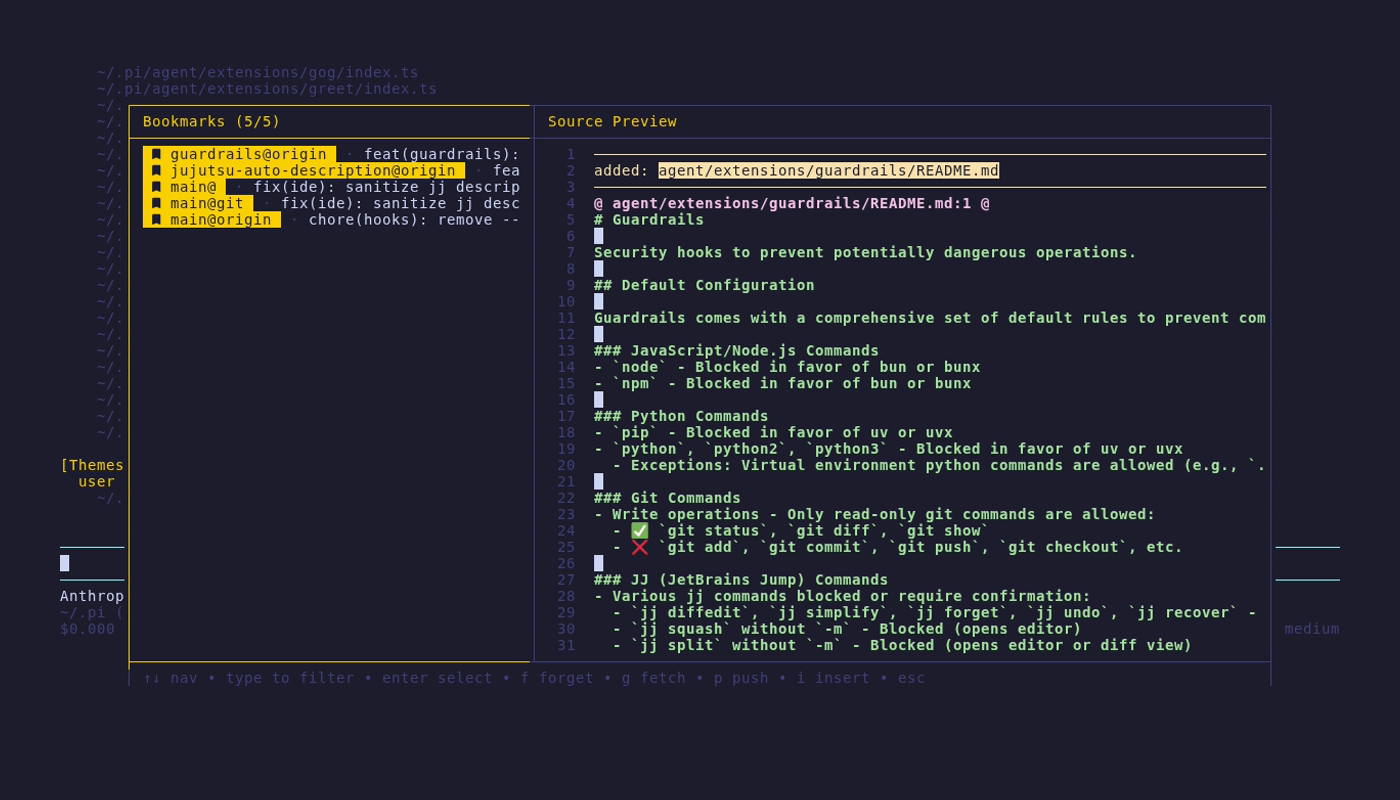
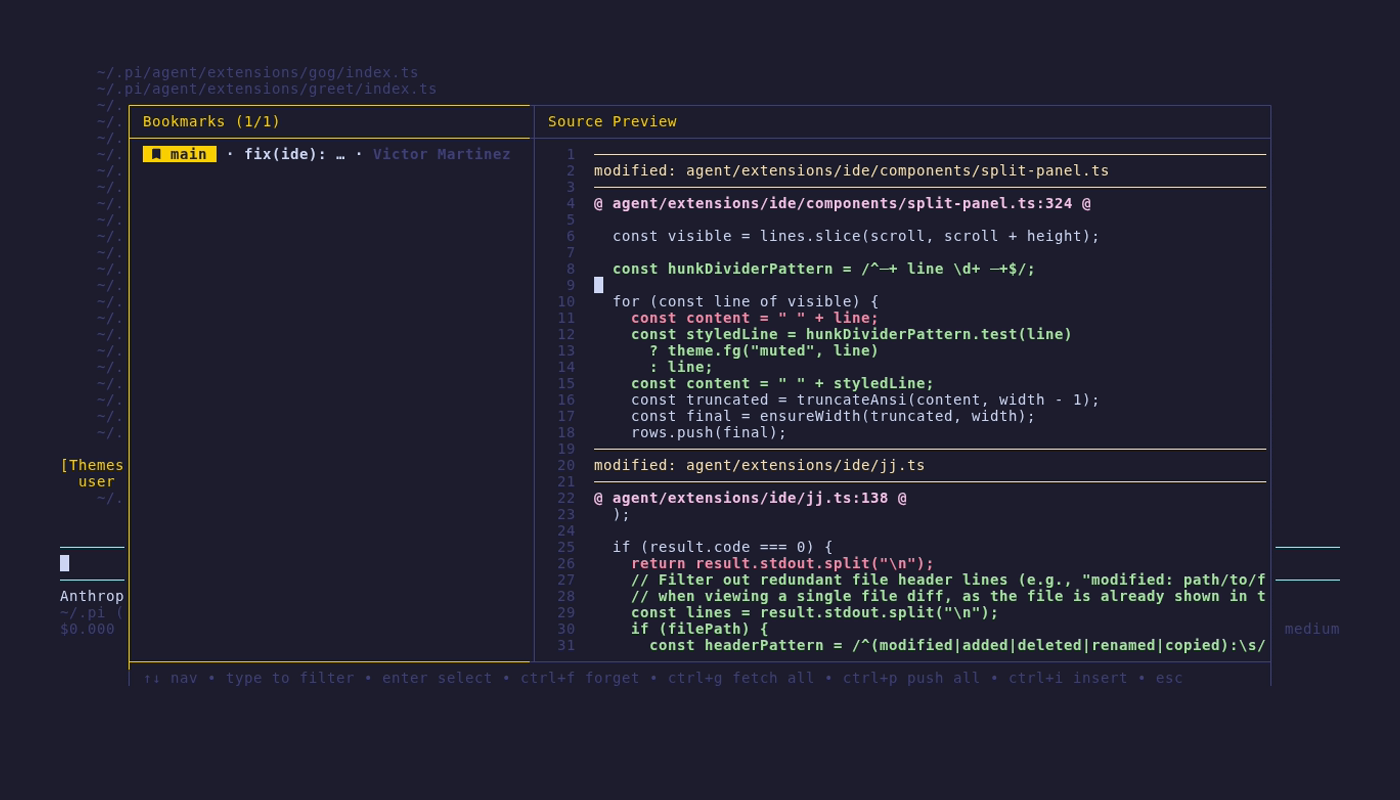
docs(ide): 📝 document missing features and refresh screenshots

diff --git a/agent/extensions/ide/README.md b/agent/extensions/ide/README.md
@@ -1,16 +1,18 @@
 # IDE Extension
 
-A development environment extension for pi that provides code browsing, jujutsu integration, and workspace management with split-panel TUI interfaces.
+A development environment extension for pi that provides code browsing, Codemapper analysis, jujutsu workflows, and workspace management with split-panel TUI overlays.
 
 ## Features
 
 - **Code browsing** - Browse files and symbols with syntax-highlighted previews
 - **Codemapper integration** - Inspect symbols, callers, callees, tests, types, schema, and impact
-- **Jujutsu integration** - Track changes per prompt, browse change history, and manage bookmarks
-- **Operation log** - Browse and restore jujutsu operation history
-- **Bookmark workflows** - Fuzzy bookmark picker, create bookmark from input, and bookmark browser (`name@remote`)
-- **Multi-select changes** - Select multiple changes and describe all selected IDs in one action
-- **Workspace management** - Spawn subagents in isolated jj workspaces
+- **Jujutsu integration** - Browse mutable changes, diff files, split/fixup/drop/new changes, and manage bookmarks
+- **Operation log** - Browse and restore/undo jujutsu operations
+- **Bookmark workflows** - Fuzzy bookmark picker, create bookmark from input, browse and push bookmarks (`name@remote`)
+- **Move mode for changes** - Reorder mutable changes in the stack (`Ctrl+M`, then `↑/↓`, `Enter`)
+- **Workspace management** - Create isolated jj workspaces and spawn subagents
+- **Skill browser** - Browse local/remote skills and install or insert `/skill:<name>`
+- **Command palette** - Fuzzy-search slash commands and shortcuts from one overlay
 - **Rich diffs** - Colorized diffs via diff-so-fancy
 - **Quick navigation** - Keyboard shortcuts for fast access
 
@@ -58,51 +60,57 @@ Browse bookmarks in `name@remote` format (`name@` for local bookmarks).
 ![Bookmarks](screenshots/bookmarks.png)
 
 **Bookmarks pane:**
-| Key | Action |
-| ------- | ------------------------ |
-| `↑/↓` | Navigate |
-| `f` | Forget selected bookmark |
-| `g` | Git fetch |
-| `p` | Git push bookmark |
-| `i` | Insert bookmark name |
-| `Esc` | Exit |
+
+| Key   | Action                   |
+| ----- | ------------------------ |
+| `↑/↓` | Navigate                 |
+| `f`   | Forget selected bookmark |
+| `g`   | Git fetch                |
+| `p`   | Git push bookmark        |
+| `i`   | Insert bookmark name     |
+| `Esc` | Exit                     |
 
 ### `/changes`
 
-Browse mutable jujutsu changes on current branch with diff preview.
+Browse all mutable jujutsu changes with file/diff preview.
 
 ![Changes](screenshots/changes.png)
 
 **Changes pane:**
-| Key | Action |
-| -------- | ------------------------------------------------- |
-| `Tab` | Switch focus |
-| `↑/↓` | Navigate |
-| `Space` | Toggle selected change |
-| `e` | Edit change |
-| `d` | Describe selected changes (or focused change) |
-| `s` | Split change into multiple commits |
-| `f` | Fixup (squash into parent) |
-| `Ctrl+D` | Drop change |
-| `i` | Insert change ID |
-| `b` | Set bookmark on change (fuzzy picker + create) |
+
+| Key      | Action                                         |
+| -------- | ---------------------------------------------- |
+| `Tab`    | Switch focus                                   |
+| `↑/↓`    | Navigate                                       |
+| `Space`  | Toggle selected change                         |
+| `e`      | Edit change                                    |
+| `d`      | Describe selected changes (or focused change)  |
+| `s`      | Split change                                   |
+| `n`      | Create new change after selected change        |
+| `f`      | Fixup (squash into parent)                     |
+| `Ctrl+M` | Enter move mode (`↑/↓` move, `Enter` apply)    |
+| `Ctrl+D` | Drop change                                    |
+| `i`      | Insert change ID                               |
+| `b`      | Set bookmark on change (picker + create)       |
+| `Ctrl+P` | Push all bookmarks pointing to selected change |
 
 **Files pane:**
-| Key | Action |
-| ----------- | -------------------- |
-| `Tab` | Switch focus |
-| `↑/↓` | Navigate |
-| `e` | Open file in VS Code |
-| `d` | Discard file changes |
-| `Ctrl+I` | Inspect file symbols |
-| `Ctrl+D` | Show file dependencies |
-| `Ctrl+U` | Show file used-by |
-| `PgUp/PgDn` | Scroll diff |
-| `Esc` | Exit |
+
+| Key         | Action                 |
+| ----------- | ---------------------- |
+| `Tab`       | Switch focus           |
+| `↑/↓`       | Navigate               |
+| `e`         | Open file in VS Code   |
+| `d`         | Discard file changes   |
+| `Ctrl+I`    | Inspect file symbols   |
+| `Ctrl+D`    | Show file dependencies |
+| `Ctrl+U`    | Show file used-by      |
+| `PgUp/PgDn` | Scroll diff            |
+| `Esc`       | Exit                   |
 
 ### `/oplog`
 
-Browse jujutsu operation log with restore capability.
+Browse jujutsu operation log with restore and undo capability.
 
 ![Op Log](screenshots/oplog.png)
 
@@ -120,56 +128,86 @@ Review all workspaces and their changes.
 ![Workspaces](screenshots/workspaces.png)
 
 **Workspaces pane:**
-| Key | Action |
-| ------- | ---------------------- |
-| `Tab` | Switch focus |
-| `↑/↓` | Navigate |
-| `n` | New workspace + pi |
-| `a` | Attach to tmux session |
-| `r` | Rebase & describe |
-| `e` | Open in VS Code |
-| `t` | Open terminal |
-| `x` | Delete workspace |
 
-**Files pane:**
-| Key | Action |
-| ----------- | ------------------ |
-| `Tab` | Switch focus |
-| `↑/↓` | Navigate |
-| `d` | Discard file |
-| `PgUp/PgDn` | Scroll diff |
-| `Esc` | Exit |
+| Key   | Action                 |
+| ----- | ---------------------- |
+| `Tab` | Switch focus           |
+| `↑/↓` | Navigate               |
+| `n`   | New workspace + pi     |
+| `a`   | Attach to tmux session |
+| `r`   | Rebase & describe      |
+| `e`   | Open in VS Code        |
+| `t`   | Open terminal          |
+| `x`   | Delete workspace       |
+
+**Files/Changes pane:**
+
+| Key         | Action       |
+| ----------- | ------------ |
+| `Tab`       | Switch focus |
+| `↑/↓`       | Navigate     |
+| `d`         | Discard file |
+| `PgUp/PgDn` | Scroll diff  |
+| `Esc`       | Exit         |
+
+### `/skills [query]`
+
+Browse local and remote skills, preview files, install remote skills, or insert local skill invocation.
+
+![Skills](screenshots/skills.png)
+
+| Key         | Action                                           |
+| ----------- | ------------------------------------------------ |
+| `↑/↓`       | Navigate (focused pane)                          |
+| `Tab`       | Switch skills/files pane                         |
+| `Enter`     | Install (remote) or insert `/skill:name` (local) |
+| `x`         | Delete local skill                               |
+| `Ctrl+L`    | Switch to local skills                           |
+| `Ctrl+R`    | Switch to remote skills                          |
+| `PgUp/PgDn` | Scroll preview                                   |
+| `Type`      | Filter skills                                    |
+| `Esc`       | Exit                                             |
+
+### `/commands`
+
+Open the command palette to fuzzy-search slash commands and shortcuts.
+
+![Commands](screenshots/commands.png)
+
+| Key         | Action         |
+| ----------- | -------------- |
+| `↑/↓`       | Navigate       |
+| `Enter`     | Execute/select |
+| `Type`      | Filter         |
+| `Backspace` | Delete filter  |
+| `Ctrl+U`    | Clear filter   |
+| `Esc`       | Exit           |
+
+### `/workspace <task description>`
+
+Create a new jj workspace from the current change and spawn a pi subagent in that workspace.
 
 ## Keyboard Shortcuts
 
-| Shortcut | Action                 |
-| -------- | ---------------------- |
-| `Ctrl+P` | Open file picker       |
-| `Ctrl+T` | Open symbol picker     |
-| `Ctrl+B` | Open bookmarks browser |
-| `Ctrl+J` | Open workspaces        |
-| `Ctrl+K` | Open changes           |
-| `Ctrl+O` | Open operation log     |
+| Shortcut       | Action                 |
+| -------------- | ---------------------- |
+| `Ctrl+P`       | Open file picker       |
+| `Ctrl+T`       | Open symbol picker     |
+| `Ctrl+B`       | Open bookmarks browser |
+| `Ctrl+J`       | Open workspaces        |
+| `Ctrl+K`       | Open changes           |
+| `Ctrl+O`       | Open operation log     |
+| `Ctrl+S`       | Open skill browser     |
+| `Ctrl+Shift+P` | Open command palette   |
 
 ## Automatic Change Tracking
 
-Each user prompt automatically creates a new jj change:
+Each interactive prompt is tracked in jj only when the first write tool is executed:
 
-1. If current change has modifications, runs `jj new`
-2. Sets the change description to the first line of the prompt
+1. If current change is empty, update its description with the prompt first line.
+2. Otherwise create a new change with that description (`jj new -m`).
 
-Change creation is deferred until the first write operation. Readonly tools (Read, Bash commands like `ls`, `cat`, `grep`, etc.) do not trigger change creation.
-
-This ensures each interaction is tracked as a separate change in jj history.
-
-## Workspace Status Icons
-
-| Icon | Status    |
-| ---- | --------- |
-| ⏳   | Running   |
-| ✅   | Completed |
-| ❌   | Failed    |
-| 💤   | Idle      |
+Readonly operations (for example `read`, and readonly shell commands like `ls`, `rg`, `find`, `jj log`, `git status`) do not create a new change.
 
 ## Dependencies
 
@@ -179,3 +217,4 @@ This ensures each interaction is tracked as a separate change in jj history.
 - `cm` - Codemapper for symbol indexing
 - `diff-so-fancy` - Beautiful diff formatting
 - `tmux` - Session management for subagents
+- `code` - VS Code CLI for opening files from overlays
